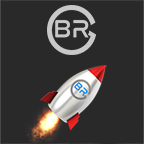
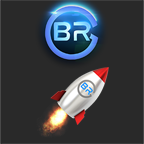
v1.3 - `Bring To Front` feature + Indicator when app is already running
- New `Bring To Front` feature allows you to bring an app to front if it's already running (no longer need to use Windows Mover & Resizer). To enable, make sure `Max Instances` is enabled.
- Shows an :green_circle:  indicator if the app is already running
- Improved icon scaling when Advanced Launcher fetched the icon from the application being launched.

Changed region(s): [[0.1944, 0.4444, 0.7778, 1.0], [0.2778, 0.0, 0.7222, 0.4444]]

diff --git a/streamdeck-advancedlauncher/PropertyInspector/Launcher.html b/streamdeck-advancedlauncher/PropertyInspector/Launcher.html
@@ -42,9 +42,19 @@
                 <label for="limitInstances" class="sdpi-item-label"><span></span>Limit number of instances running</label>
             </div>
         </div>
-        <div class="sdpi-item" id="dvMaxInstances">
-            <div class="sdpi-item-label">Max Instances</div>
-            <input class="sdpi-item-value sdProperty" id="maxInstances" inputmode="numeric" pattern="[0-9]*" type="number" placeholder="1" oninput="setSettings()">
+        <div id="dvLimitInstancesSettings" style="display:none;">
+            <div class="sdpi-item" id="dvMaxInstances">
+                <div class="sdpi-item-label">Max Instances</div>
+                <input class="sdpi-item-value sdProperty" id="maxInstances" inputmode="numeric" pattern="[0-9]*" type="number" placeholder="1" oninput="setSettings()">
+            </div>
+
+            <div type="checkbox" class="sdpi-item" id="dvBringToFront">
+                <div class="sdpi-item-label">Bring to front</div>
+                <div class="sdpi-item-value">
+                    <input id="bringToFront" type="checkbox" value="" class="sdProperty sdCheckbox" oninput="setSettings()">
+                    <label for="bringToFront" class="sdpi-item-label"><span></span>Bring to front if already running</label>
+                </div>
+            </div>
         </div>
         <div type="checkbox" class="sdpi-item" id="dvKillExistingInstances">
             <div class="sdpi-item-label">Kill Instances</div>
@@ -56,6 +66,13 @@
         <div class="sdpi-item" id="dvPostKillLaunchDelay">
             <div class="sdpi-item-label">Delay before launch (seconds)</div>
             <input class="sdpi-item-value sdProperty" id="postKillLaunchDelay" inputmode="numeric" pattern="[0-9]*" type="number" placeholder="0" oninput="setSettings()">
+        </div>
+        <div type="checkbox" class="sdpi-item" id="dvIndicator">
+            <div class="sdpi-item-label">Indicator</div>
+            <div class="sdpi-item-value">
+                <input id="showRunningIndicator" type="checkbox" value="" class="sdProperty sdCheckbox" oninput="setSettings()">
+                <label for="showRunningIndicator" class="sdpi-item-label"><span></span>Show dot if process is running</label>
+            </div>
         </div>
     </div>
 </body>

diff --git a/streamdeck-advancedlauncher/PropertyInspector/sdtools.common.js b/streamdeck-advancedlauncher/PropertyInspector/sdtools.common.js
@@ -1,4 +1,14 @@
-// sdtools.common.js v1.0
+// ****************************************************************
+// * EasyPI v1.3
+// * Author: BarRaider
+// *
+// * JS library to simplify the communication between the 
+// * Stream Deck's Property Inspector and the plugin.
+// *
+// * Project page: https://github.com/BarRaider/streamdeck-easypi
+// * Support: http://discord.barraider.com
+// ****************************************************************
+
 var websocket = null,
     uuid = null,
     registerEventName = null,
@@ -87,6 +97,9 @@ function loadConfiguration(payload) {
                 }
                 elem.value = payload[valueField];
             }
+            else if (elem.classList.contains("sdHTML")) { // HTML element
+                elem.innerHTML = payload[key];
+            }
             else { // Normal value
                 elem.value = payload[key];
             }
@@ -122,6 +135,10 @@ function setSettings() {
         else if (elem.classList.contains("sdList")) { // Dynamic dropdown
             var valueField = elem.getAttribute("sdValueField");
             payload[valueField] = elem.value;
+        }
+        else if (elem.classList.contains("sdHTML")) { // HTML element
+            var valueField = elem.getAttribute("sdValueField");
+            payload[valueField] = elem.innerHTML;
         }
         else { // Normal value
             payload[key] = elem.value;

diff --git a/streamdeck-advancedlauncher/PropertyInspector/Launcher.js b/streamdeck-advancedlauncher/PropertyInspector/Launcher.js
@@ -33,8 +33,8 @@ function showHideSettings(payload) {
 }
 
 function setLimitInstances(displayValue) {
-    var dvMaxInstances = document.getElementById('dvMaxInstances');
-    dvMaxInstances.style.display = displayValue;
+    var dvLimitInstancesSettings = document.getElementById('dvLimitInstancesSettings');
+    dvLimitInstancesSettings.style.display = displayValue;
 }
 
 function setPostKillDelay(displayValue) {

diff --git a/streamdeck-advancedlauncher/LauncherAction.cs b/streamdeck-advancedlauncher/LauncherAction.cs
@@ -7,6 +7,7 @@ using System.Diagnostics;
 using System.Drawing;
 using System.IO;
 using System.Linq;
+using System.Runtime.InteropServices;
 using System.Text;
 using System.Threading;
 using System.Threading.Tasks;
@@ -17,6 +18,7 @@ namespace AdvancedLauncher
     //---------------------------------------------------
     //          BarRaider's Hall Of Fame
     // Subscriber: Pingu2k5
+    // Subscriber: Chefmans
     //---------------------------------------------------
 
     [PluginActionId("com.barraider.advancedlauncher")]
@@ -38,7 +40,9 @@ namespace AdvancedLauncher
                     MaxInstances = MAX_INSTANCES.ToString(),
                     KillInstances = false,
                     PostKillLaunchDelay = POST_KILL_LAUNCH_DELAY.ToString(),
-                    RunAsAdmin = false
+                    RunAsAdmin = false,
+                    ShowRunningIndicator = false,
+                    BringToFront = false
                 };
                 return instance;
             }
@@ -68,14 +72,17 @@ namespace AdvancedLauncher
             [JsonProperty(PropertyName = "runAsAdmin")]
             public bool RunAsAdmin { get; set; }
 
-            
+            [JsonProperty(PropertyName = "showRunningIndicator")]
+            public bool ShowRunningIndicator { get; set; }
+
+            [JsonProperty(PropertyName = "bringToFront")]
+            public bool BringToFront { get; set; }
         }
 
         #region Private Members
 
         private readonly PluginSettings settings;
         private int maxInstances = 1;
-        private Icon fileIcon;
         private Bitmap fileImage;
         private int postKillLaunchDelay = 0;
 
@@ -111,10 +118,11 @@ namespace AdvancedLauncher
             if (fileImage != null)
             {
                 await Connection.SetImageAsync(fileImage);
+                await HandleRunningIndicator();
             }
         }
 
-        public override void ReceivedSettings(ReceivedSettingsPayload payload)
+        public async override void ReceivedSettings(ReceivedSettingsPayload payload)
         {
             string appOld = settings.Application;
             Tools.AutoPopulateSettings(settings, payload.Settings);
@@ -123,7 +131,8 @@ namespace AdvancedLauncher
                 InitializeStartInDirectory();
             }
             InitializeSettings();
-            SaveSettings();
+            await Connection.SetTitleAsync((String)null);
+            await SaveSettings();
         }
 
         public override void ReceivedGlobalSettings(ReceivedGlobalSettingsPayload payload) { }
@@ -162,29 +171,7 @@ namespace AdvancedLauncher
                 settings.PostKillLaunchDelay = POST_KILL_LAUNCH_DELAY.ToString();
             }
 
-            // Cleanup
-            if (fileIcon != null)
-            {
-                fileIcon.Dispose();
-                fileIcon = null;
-            }
-            if (fileImage != null)
-            {
-                fileImage.Dispose();
-                fileImage = null;
-            }
-
-            // Try to extract Icon
-            if (!String.IsNullOrEmpty(settings.Application) && File.Exists(settings.Application))
-            {
-                FileInfo fileInfo = new FileInfo(settings.Application);
-                fileIcon = IconExtraction.Shell.OfPath(fileInfo.FullName, small: false);
-                if (fileIcon != null)
-                {
-                    // Get a bitmap image of the icon
-                    fileImage = fileIcon.ToBitmap();
-                }
-            }
+            FetchFileImage();
         }
 
         private async Task HandleApplicationRun()
@@ -222,13 +209,16 @@ namespace AdvancedLauncher
                     }
                 }
 
-                // Do not spwan a new process if there are already too many running
+                // Do not spawn a new process if there are already too many running
                 if (settings.LimitInstances)
                 {
                     int count = Process.GetProcessesByName(fileName).ToList().Count;
                     if (count >= maxInstances)
                     {
                         Logger.Instance.LogMessage(TracingLevel.INFO, $"Not spawning a new instance of {settings.Application} because there are {count}/{maxInstances} running.");
+
+                        // Check if we should bring the existing process to front
+                        HandleBringToFront(fileName);
                         return;
                     }
                 }
@@ -272,6 +262,110 @@ namespace AdvancedLauncher
             // Launch the app
             Process.Start(start);
         }
+
+        private async Task HandleRunningIndicator()
+        {
+            if (!settings.ShowRunningIndicator)
+            {
+                return;
+            }
+
+            FileInfo fileInfo = new FileInfo(settings.Application);
+            string fileName = fileInfo.Name.Substring(0, fileInfo.Name.LastIndexOf('.'));
+
+            // Check if there are any running instances
+            if (Process.GetProcessesByName(fileName).Length > 0)
+            {
+                await Connection.SetTitleAsync($"🟢{new String(' ',10)}");
+            }
+            else
+            {
+                await Connection.SetTitleAsync((String)null);
+            }
+        }
+
+        private void FetchFileImage()
+        {
+            if (fileImage != null)
+            {
+                fileImage.Dispose();
+                fileImage = null;
+            }
+
+            // Try to extract Icon
+            if (!String.IsNullOrEmpty(settings.Application) && File.Exists(settings.Application))
+            {
+                FileInfo fileInfo = new FileInfo(settings.Application);
+                var fileIcon = IconExtraction.Shell.OfPath(fileInfo.FullName, small: false);
+                if (fileIcon != null)
+                {
+                    using (Bitmap fileIconAsBitmap = fileIcon.ToBitmap())
+                    {
+                        Logger.Instance.LogMessage(TracingLevel.INFO, $"Bitmap size is: {fileIconAsBitmap.Width}x{fileIconAsBitmap.Height}");
+                        fileImage = Tools.GenerateGenericKeyImage(out Graphics graphics);
+
+                        // Check if app icon is smaller than the Stream Deck key
+                        if (fileIconAsBitmap.Width < fileImage.Width && fileIconAsBitmap.Height < fileImage.Height)
+                        {
+                            float position = Math.Min(fileIconAsBitmap.Width / 2, fileIconAsBitmap.Height / 2);
+                            graphics.DrawImage(fileIconAsBitmap, position, position, fileImage.Width - position * 2, fileImage.Height - position * 2);
+                        }
+                        else // App icon is bigger or equals to the size of a stream deck key
+                        {
+                            graphics.DrawImage(fileIconAsBitmap, 0, 0, fileImage.Width, fileImage.Height);
+                        }
+                        graphics.Dispose();
+                    }
+                    fileIcon.Dispose();
+                }
+            }
+        }
+
+        [DllImport("user32.dll")]
+        [return: MarshalAs(UnmanagedType.Bool)]
+        private static extern bool SetForegroundWindow(IntPtr hWnd);
+
+        [DllImport("user32.dll")]
+        [return: MarshalAs(UnmanagedType.Bool)]
+        static extern bool IsIconic(IntPtr hWnd);
+
+        private void HandleBringToFront(string processFileName)
+        {
+            if (!settings.BringToFront)
+            {
+                return;
+            }
+
+            var proc = Process.GetProcessesByName(processFileName).Where(p => !String.IsNullOrEmpty(p.MainWindowTitle)).OrderByDescending(p => p.Id).FirstOrDefault();
+            if (proc == null)
+            {
+                Logger.Instance.LogMessage(TracingLevel.ERROR, $"HandleBringToFront error, could not find process for {processFileName}");
+                return;
+            }
+
+            IntPtr handle = proc.MainWindowHandle;
+            if (SetForegroundWindow(handle))
+            {
+                if (!IsIconic(handle))
+                {
+                    Logger.Instance.LogMessage(TracingLevel.INFO, $"Successfully set foreground window for {processFileName} HWND: {handle}");
+                    return;
+                }
+            }
+            Logger.Instance.LogMessage(TracingLevel.WARN, $"Failed to set foreground window for {processFileName} HWND: {handle}, trying to force it");
+            MinimizeAndRestoreWindow(handle);
+
+        }
+
+        [DllImport("user32.dll")]
+        public static extern bool ShowWindow(IntPtr hWnd, ShowWindowEnum nCmdShow);
+
+        private void MinimizeAndRestoreWindow(IntPtr hWnd)
+        {
+            ShowWindow(hWnd, ShowWindowEnum.MINIMIZE);
+            ShowWindow(hWnd, ShowWindowEnum.RESTORE);
+        }
+
 
         #endregion
     }

diff --git a/streamdeck-advancedlauncher/Properties/AssemblyInfo.cs b/streamdeck-advancedlauncher/Properties/AssemblyInfo.cs
@@ -5,12 +5,12 @@ using System.Runtime.InteropServices;
 // General Information about an assembly is controlled through the following
 // set of attributes. Change these attribute values to modify the information
 // associated with an assembly.
-[assembly: AssemblyTitle("streamdeck-streamcounter")]
+[assembly: AssemblyTitle("com.barraider.advancedlauncher")]
 [assembly: AssemblyDescription("")]
 [assembly: AssemblyConfiguration("")]
 [assembly: AssemblyCompany("")]
-[assembly: AssemblyProduct("streamdeck-streamcounter")]
-[assembly: AssemblyCopyright("Copyright ©  2019")]
+[assembly: AssemblyProduct("com.barraider.advancedlauncher")]
+[assembly: AssemblyCopyright("Copyright ©  2020")]
 [assembly: AssemblyTrademark("")]
 [assembly: AssemblyCulture("")]
 

diff --git a/streamdeck-advancedlauncher/ShowWindowEnum.cs b/streamdeck-advancedlauncher/ShowWindowEnum.cs
@@ -1,0 +1,23 @@
+using System;
+using System.Collections.Generic;
+using System.Linq;
+using System.Text;
+using System.Threading.Tasks;
+
+namespace AdvancedLauncher
+{
+    public enum ShowWindowEnum : int
+    {
+        HIDE = 0,
+        SHOWNORMAL = 1,
+        SHOWMINIMIZED = 2,
+        SHOWMAXIMIZED = 3,
+        SHOWNOACTIVATE = 4,
+        SHOW = 5,
+        MINIMIZE = 6,
+        SHOWMINNOACTIVE = 7,
+        SHOWNA = 8,
+        RESTORE = 9,
+        SHOWDEFAULT = 10
+    }
+}

diff --git a/README.md b/README.md
@@ -3,6 +3,11 @@
 
 **Author's website and contact information:** [https://barraider.com](https://barraider.com)
 
+### New in v1.3
+- New `Bring To Front` feature allows you to bring an app to front if it's already running (no longer need to use Windows Mover & Resizer). To enable, make sure `Max Instances` is enabled.
+- Shows an :green_circle:  indicator if the app is already running
+- Improved icon scaling when Advanced Launcher fetched the icon from the application being launched.
+
 ## Current Features
 - New `Start In` parameter, allows you to modify the working directory in which the application runs. 
 - Programs can now be set to `Run as Administrator`
